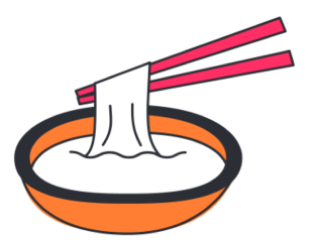
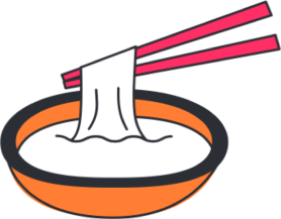
Добавить картинку в футер

diff --git a/src/components/footer/footer.module.css b/src/components/footer/footer.module.css
@@ -1,10 +1,18 @@
 .container {
+  position: relative;
   width: 100%;
   max-width: 1110px;
   gap: 92px;
   padding: 56px 0 77px;
   display: flex;
   justify-content: space-between;
+}
+
+.container::after {
+  position: absolute;
+  bottom: -18px;
+  right: -65px;
+  content: url("../../images/footer.png");
 }
 
 .legalInfo {
